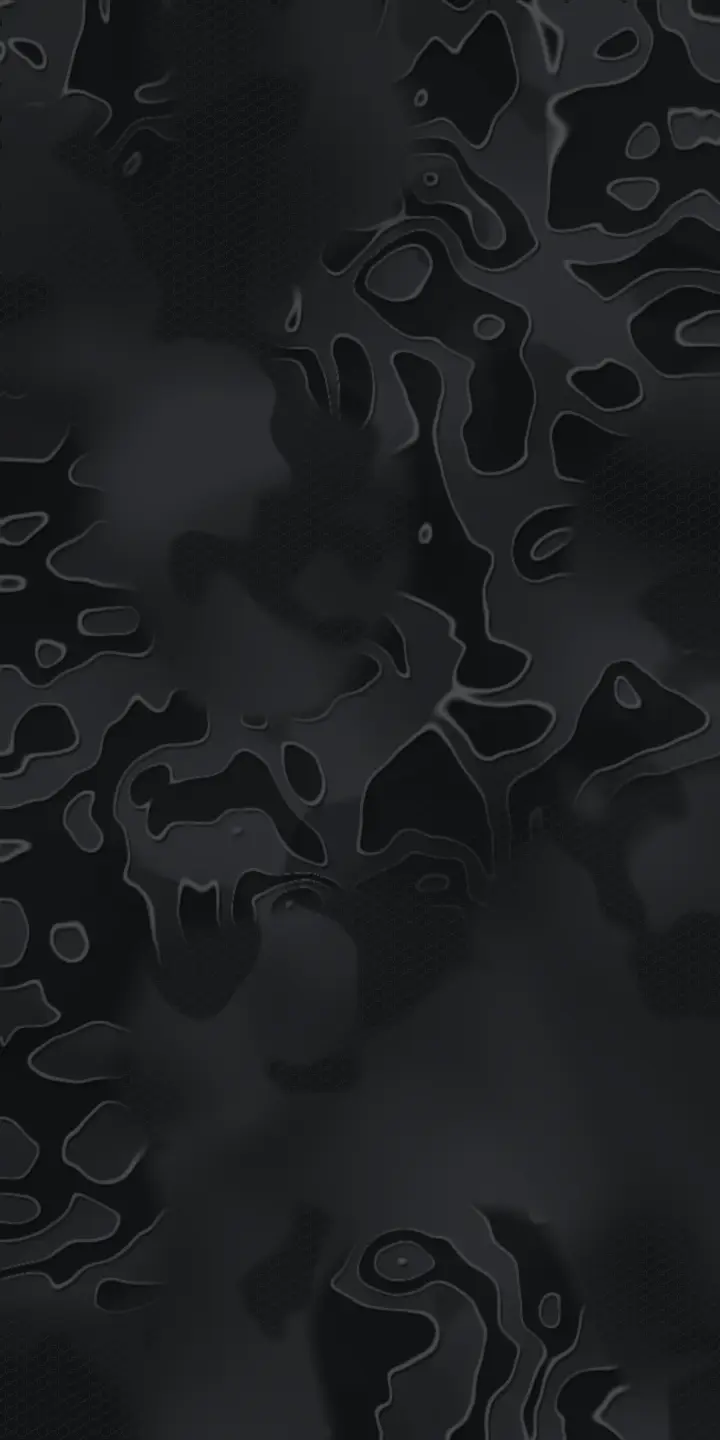
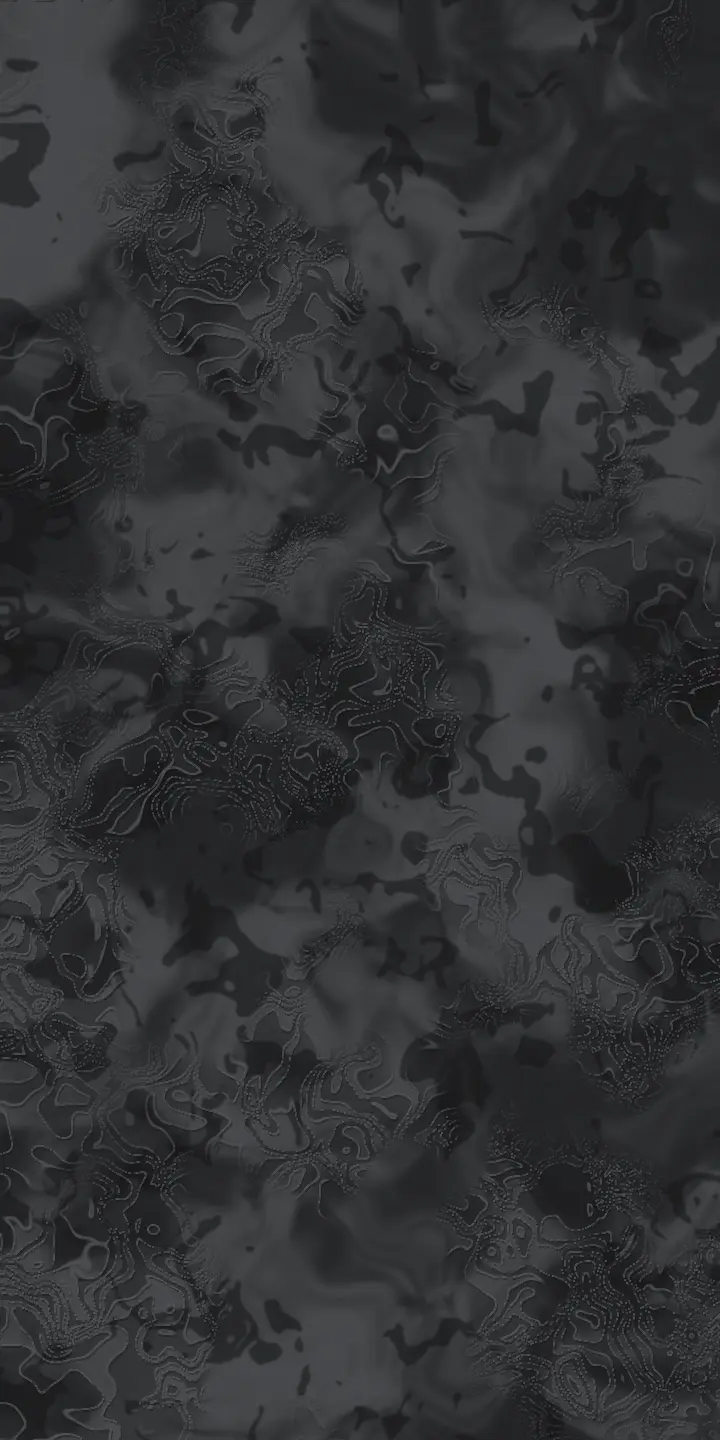
0.7.93: значки Складу, «Відстріляти», камуфляжі, збільшення скринів

diff --git a/css/app.css b/css/app.css
@@ -455,6 +455,10 @@ button, input, select, textarea { font: inherit; color: inherit; }
 .swipe-ico svg { width: 22px; height: 22px; fill: none; stroke: currentColor; stroke-width: 1.8; stroke-linejoin: round; stroke-linecap: round; }
 /* Поріг пройдено — іконка підростає разом із вібрацією: відпускай, спрацює */
 .card.armed .swipe-ico { transform: scale(1.25); }
+/* Свайп «відстріляти»: дійшов до спрацювання — у мішені спалахує пробоїна */
+.swipe-ico .hit { transform-box: fill-box; transform-origin: center; }
+.card.armed .swipe-ico .hit { animation: swipe-hit .35s ease-out; }
+@keyframes swipe-hit { 0% { transform: scale(.3); opacity: .3; } 60% { transform: scale(1.4); opacity: 1; } 100% { transform: none; } }
 .swipe-bg.right { background: var(--buy); justify-content: flex-start; }
 .swipe-bg.left { background: var(--shoot); justify-content: flex-end; }
 .card.dir-right .swipe-bg.right, .card.dir-left .swipe-bg.left { display: flex; opacity: .55; }
@@ -1370,10 +1374,12 @@ button.gun-stat { cursor: pointer; }
 .tabs a.active svg { background: var(--accent-soft); }
 /* Перейшли на розділ — його значок ~2,4 с грає своє: набої підстрибують хвилею, щит блищить, рядки журналу пишуться, мішень ловить влучання */
 .tabs svg :is(g, path, circle) { transform-box: fill-box; transform-origin: center; }
-.tabs a.play[data-tab="ammo"] g { animation: tab-hop .8s ease-in-out 3; }
-.tabs a.play[data-tab="ammo"] g:nth-child(2) { animation-delay: .12s; }
-.tabs a.play[data-tab="ammo"] g:nth-child(3) { animation-delay: .24s; }
-@keyframes tab-hop { 0%, 60%, 100% { transform: none; } 25% { transform: translateY(-3px); } }
+/* Склад: кришка цинку відкидається на завісі зліва, з цинку визирає набій і ховається назад */
+.tabs a[data-tab="ammo"] .peek { opacity: 0; }
+.tabs a.play[data-tab="ammo"] .lid { transform-box: view-box; transform-origin: 3px 11px; animation: tab-lid 1.6s ease-in-out both; }
+.tabs a.play[data-tab="ammo"] .peek { animation: tab-peek 1.6s ease-in-out both; }
+@keyframes tab-lid { 0%, 100% { transform: none; } 25%, 70% { transform: rotate(-30deg); } }
+@keyframes tab-peek { 0%, 18%, 82%, 100% { opacity: 0; transform: translateY(3px); } 38%, 64% { opacity: 1; transform: translateY(-1.5px); } }
 /* Лише transform: «промальовування» через stroke-dashoffset перераховувало значок щокадру й гальмувало перехід */
 .tabs a.play[data-tab="guns"] .emb { animation: tab-emb 1.6s ease-out both; }
 .tabs a.play[data-tab="guns"] .emb:nth-child(2) { transform-origin: 50% 100%; }
@@ -1408,11 +1414,20 @@ button.gun-stat { cursor: pointer; }
 @keyframes seg-dash { 0%, 100% { transform: none; } 30% { transform: translateX(-3px); } 70% { transform: translateX(3px); } }
 /* Розділи Складу й Арсеналу: патрон підстрибує, у компонентах куля підскакує й капсулі блимають, у колбі рідина хлюпає,
    гвинтівка тричі віддає, жилет «дихає» */
-.range-seg .play[data-seg="ammo"] svg { animation: seg-hop .8s ease-in-out 3; }
+.range-seg svg g { transform-box: fill-box; transform-origin: center; }
+/* Набої підстрибують по черзі, як у магазин */
+.range-seg .play[data-seg="ammo"] :is(.r1, .r2) { animation: seg-hop .8s ease-in-out 2; }
+.range-seg .play[data-seg="ammo"] .r2 { animation-delay: .22s; }
 @keyframes seg-hop { 0%, 60%, 100% { transform: none; } 25% { transform: translateY(-3px); } }
-.range-seg .play[data-seg="components"] path:nth-child(5) { animation: seg-hop .8s ease-in-out 3; }
-.range-seg .play[data-seg="components"] circle { animation: seg-ring 1.2s ease-out 2; }
-.range-seg .play[data-seg="components"] circle:nth-child(4) { animation-delay: .12s; }
+/* Компоненти: банка нахиляється й сипле порох, куля підскакує, капсуль блимає */
+.range-seg .play[data-seg="components"] .jar { transform-box: view-box; transform-origin: 11.5px 21px; animation: seg-tilt 1.4s ease-in-out both; }
+.range-seg .play[data-seg="components"] .grains circle { animation: seg-grain 1.4s ease-in both; }
+.range-seg .play[data-seg="components"] .grains circle:nth-child(2) { animation-delay: .12s; }
+.range-seg .play[data-seg="components"] .grains circle:nth-child(3) { animation-delay: .24s; }
+.range-seg .play[data-seg="components"] .proj { animation: seg-hop .8s ease-in-out .3s 2; }
+.range-seg .play[data-seg="components"] .primer { animation: seg-ring 1.2s ease-out .5s; }
+@keyframes seg-tilt { 0%, 100% { transform: none; } 25%, 65% { transform: rotate(16deg); } }
+@keyframes seg-grain { 0%, 20% { transform: none; opacity: 1; } 70% { transform: translateY(6px); opacity: 0; } 71% { transform: translateY(-3px); opacity: 0; } 100% { transform: none; opacity: 1; } }
 .range-seg .play[data-seg="recipes"] path:nth-child(2) { animation: seg-slosh 1.2s ease-in-out 2; }
 @keyframes seg-slosh { 0%, 100% { transform: none; } 25% { transform: rotate(-12deg) translateY(-1px); } 75% { transform: rotate(12deg) translateY(-1px); } }
 .range-seg .play[data-seg="guns"] svg { animation: seg-recoil .8s ease-out 3; }
@@ -2898,17 +2913,16 @@ body:has(.guide .sim.quiz-on) .topbar, body:has(.guide .sim.quiz-on) #view .rang
   linear-gradient(#171818 25%, #151616 25%, #151616 50%, transparent 50%, transparent 75%, #1d1e1f 75%, #1d1e1f) 0 0 / 20px 20px, #141515; }
 [data-bg="coyote"] { --paper: radial-gradient(70% 40% at 100% 0%, rgb(236 127 47 / .18), transparent 70%),
   radial-gradient(130% 70% at 0% 0%, #3b2f20, transparent 70%), linear-gradient(180deg, #221b13 0%, #100d09 100%); }
-[data-bg="camo"] { --paper: url(camo.svg) center / cover no-repeat, #141614; }
+/* Чорний камуфляж — свій узор у дусі чорного мультикаму (camo.webp): плями, гілочки, шестигранники */
+[data-bg="camo"] { --paper: url(camo.webp) center / cover no-repeat, #141614; }
 /* Гадюка — свій сірий узор у дусі Viper (viper*.webp): хмари, рвані плями, обведені «рідкі» розводи */
 [data-bg="viper"] { --paper: url(viper.webp) center / cover no-repeat, #151618; }
 [data-bg="l-viper"] { --paper: url(viper-light.webp) center / cover no-repeat, #dcdcdb; }
 [data-bg="l-plain"] { --paper: radial-gradient(120% 60% at 50% -10%, #e8eae1, #f1f2ec 60%), #f1f2ec; }
-/* «Блокнот» і «Олива» — палітри світлої теми: міняють і картки, лінії, сірий текст, не лише тло */
-[data-bg="l-note"] { --paper: radial-gradient(120% 60% at 50% -10%, #e3dbc9, #ece6d8 60%), #ece6d8; }
-:root[data-bg="l-note"] { --bg: #ece6d8; --bg-glow: #e3dbc9; --surface: #f8f4eb; --surface-2: #efe8da; --seg-on: #fcf9f2; --line: #ddd3bf; --line-soft: #e7dfcf;
+/* «Пісок» і «Хакі» — палітри світлої теми: міняють і картки, лінії, сірий текст, не лише тло (тло саме під картками майже не видно) */
+:root[data-bg="l-sand"] { --bg: #f1e6d1; --bg-glow: #e3dbc9; --surface: #f8f4eb; --surface-2: #efe8da; --seg-on: #fcf9f2; --line: #ddd3bf; --line-soft: #e7dfcf;
   --text: #2b261d; --muted: #6a6151; --accent: #a65410; --accent-2: #8d460c; --shadow: 0 1px 2px rgb(60 45 20 / .07), 0 6px 16px rgb(60 45 20 / .07); }
-[data-bg="l-olive"] { --paper: radial-gradient(120% 60% at 50% -10%, #dce2d1, #e5e9de 60%), #e5e9de; }
-:root[data-bg="l-olive"] { --bg: #e5e9de; --bg-glow: #dce2d1; --surface: #f5f7f0; --surface-2: #e8ece0; --seg-on: #fbfcf7; --line: #d1d8c5; --line-soft: #dde3d3;
+:root[data-bg="l-khaki"] { --bg: #e6e9d7; --bg-glow: #dce2d1; --surface: #f5f7f0; --surface-2: #e8ece0; --seg-on: #fbfcf7; --line: #d1d8c5; --line-soft: #dde3d3;
   --text: #1f251c; --muted: #5a6454; --accent: #a9530f; --accent-2: #8f450b; --shadow: 0 1px 2px rgb(30 45 20 / .07), 0 6px 16px rgb(30 45 20 / .07); }
 [data-bg="l-map"] { --paper: url(topo-light.svg) center / cover no-repeat, linear-gradient(180deg, #f6f2e7 0%, #ebe3d0 100%); }
 /* Міліметрівка — як сітка на мішені: тонка лінія через 10 px, товща через 50 px */
@@ -2926,8 +2940,6 @@ body:has(.guide .sim.quiz-on) .topbar, body:has(.guide .sim.quiz-on) #view .rang
 :root[data-bg="l-viper"] { --bg: #e4e4e3; }
 :root[data-bg="l-map"] { --bg: #f3eee2; }
 :root[data-bg="l-mm"] { --bg: #f5f6ef; }
-:root[data-bg="l-sand"] { --bg: #f1e6d1; }
-:root[data-bg="l-khaki"] { --bg: #e6e9d7; }
 :root[data-bg] body { background: var(--paper); background-attachment: fixed; }
 
 /* Лента фонів — як стрічка цілей: вибраний посередині в рамці, сусіди видні й гаснуть до країв, «‹ ›» по боках */

diff --git a/js/app.js b/js/app.js
@@ -760,7 +760,7 @@ function cartridgeCard(c) {
   const recipe = recipeOf(c);
   return swipeable(card, {
     rightLabel: recipe ? swipeLabel('reload', t('Снарядить')) : swipeLabel('buy', t('Купить')),
-    leftLabel: swipeLabel('shot', t('Списать'), 'left'),
+    leftLabel: swipeLabel('target', t('Отстрелять'), 'left'),
     onRight: () => (recipe ? reloadSheet(recipe) : buySheet(c)),
     onLeft: () => shootSheet({ cartridge: c }),
     onTap: () => cartridgeDetail(c),
@@ -875,7 +875,7 @@ function renderAmmo() {
   if (!active.length) {
     return h('div', {}, empty(t('Пока нет патронов'), t('Добавьте первый патрон, загрузите копию или посмотрите демо-данные.'), [addBtn(), importBtn(), btn(t('Демо-данные'), loadDemo)]), archived);
   }
-  $('subtitle').textContent = swipeTip('ammo', active.some(recipeOf) ? t('Свайп → купить или снарядить, ← списать') : t('Свайп → купить, ← списать'),
+  $('subtitle').textContent = swipeTip('ammo', active.some(recipeOf) ? t('Свайп → купить или снарядить, ← отстрелять') : t('Свайп → купить, ← отстрелять'),
     t('позиций: {n}', { n: active.length }));
   const groups = groupBy(active, (c) => c.caliber || t('Без калибра'))
     .map(([caliber, list]) => ({ caliber, list: list.sort(byName), sum: list.reduce((s, c) => s + M.cartridgeStock(state, c.id), 0) }));
@@ -1142,7 +1142,7 @@ function shootSheet({ cartridge = null, weapon = null }) {
   const noteChips = chips(noteSuggestions(), '', (v) => { f.inputs.note.value = v; });
   noteChips.classList.add('chips-sm');
   const when = whereWhenBox(f, { lead: [f.inputs.note.closest('.field'), noteChips] });
-  const title = cartridge ? t('Списать: {name}', { name: cartridge.name }) : t('Настрел: {name}', { name: weapon.name });
+  const title = cartridge ? t('Стрельба: {name}', { name: cartridge.name }) : t('Настрел: {name}', { name: weapon.name });
   const info = cartridge ? h('p', { class: 'muted' }, t('В наличии: {n} шт', { n: fmt.num(M.cartridgeStock(state, cartridge.id)) })) : null;
   // Вартість стрільби одразу під кількістю: ціна набою × постріли.
   const costLine = h('div', { class: 'cost-line small' });
@@ -1175,7 +1175,7 @@ function shootSheet({ cartridge = null, weapon = null }) {
     f.inputs.foreignName ? foreignList() : null);
   body.addEventListener('click', () => setTimeout(updateAll));
   const close = sheet(title, body, {
-    actions: [btn(t('Отмена'), () => close()), btn(t('Списать'), save, 'primary shoot')],
+    actions: [btn(t('Отмена'), () => close()), btn(t('Записать'), save, 'primary shoot')],
   });
   async function save() {
     if (invalidField(f)) return;
@@ -1286,7 +1286,7 @@ function cartridgeBody(c, close) {
       recipe
         ? btn(t('Снарядить'), () => { close(); reloadSheet(recipe); }, 'primary')
         : btn(t('+ Купить'), () => { close(); buySheet(c); }, 'primary'),
-      btn(t('Списать −'), () => { close(); shootSheet({ cartridge: c }); }),
+      btn(t('Отстрелять −'), () => { close(); shootSheet({ cartridge: c }); }),
       btn(t('Пересчёт'), () => { close(); adjustSheet(c, 'cartridges'); })),
     cartridgePrecisionBox(c, close),
     box(t('История'), movementRows(moves, { skip: { cartridge: true } }), { fold: `hist:${c.id}`, count: moves.length }));
@@ -3286,6 +3286,8 @@ const KIND_ICON = {
   // Крапля мастила над лінією ствола: чистка — це догляд, а не прибирання.
   // Гільза й стрілка вниз: зібране повертається на склад.
   collect: '<path d="M6 21v-9l.8-1.6V8c0-1.3.5-2.5 1.2-3.2.7.7 1.2 1.9 1.2 3.2v2.4L10 12v9z"/><path d="M17 4v9M13.5 9.5 17 13l3.5-3.5M14 18h6"/>',
+  // Мішень із пробоїною й іскрою — свайп «відстріляти» на набої
+  target: '<circle cx="12" cy="12" r="9"/><circle cx="12" cy="12" r="5.5"/><circle cx="12" cy="12" r="2"/><g class="hit"><circle cx="15.6" cy="8.6" r="1.7" fill="currentColor" stroke="none"/><path d="M15.6 4.6v1.1M19.6 8.6h-1.1M18.5 5.7l-.8.8"/></g>',
   clean: '<path d="M4 17.5h16"/><path d="M12 4c2.2 2.8 3.4 4.8 3.4 6.4a3.4 3.4 0 0 1-6.8 0C8.6 8.8 9.8 6.8 12 4z"/>',
 };
 
@@ -3903,7 +3905,7 @@ function renderLog() {
     h('div', { class: 'log-controls' }, h('div', { class: 'log-bar' }, period, filterBtn), onRow),
     list.length
       ? logGroups(list)
-      : empty(t('Записей нет'), t('Свайпните патрон на «Складе», чтобы купить или списать.'), [btn(t('На склад'), () => { location.hash = '#ammo'; }, 'primary')]),
+      : empty(t('Записей нет'), t('Свайпните патрон на «Складе», чтобы купить или отстрелять.'), [btn(t('На склад'), () => { location.hash = '#ammo'; }, 'primary')]),
     csv);
 }
 
@@ -6343,14 +6345,15 @@ function themePref() {
 // Фон під картками — свій набір для темної й світлої теми; перший (без малюнка) — за замовчуванням, у нічній фону немає
 const BACKDROPS = {
   dark: [['plain', 'Без рисунка'], ['map', 'Карта'], ['olive', 'Олива'], ['carbon', 'Карбон'], ['coyote', 'Койот'], ['camo', 'Чёрный камуфляж'], ['viper', 'Гадюка']],
-  light: [['l-plain', 'Без рисунка'], ['l-note', 'Блокнот'], ['l-olive', 'Олива'], ['l-map', 'Карта'], ['l-mm', 'Миллиметровка'], ['l-sand', 'Песок'], ['l-khaki', 'Хаки'], ['l-viper', 'Гадюка']],
+  light: [['l-plain', 'Без рисунка'], ['l-map', 'Карта'], ['l-mm', 'Миллиметровка'], ['l-sand', 'Песок'], ['l-khaki', 'Хаки'], ['l-viper', 'Гадюка']],
 };
 const BG_KEY = { dark: 'shooters-log:bg', light: 'shooters-log:bg-light' };
 
 function backdropPref(theme) {
   const list = BACKDROPS[theme];
   if (!list) return null;
-  const v = recall(BG_KEY[theme]);
+  // «Блокнот» і «Олива» (лише 31.10) злиті з «Піском» і «Хакі»
+  const v = { 'l-note': 'l-sand', 'l-olive': 'l-khaki' }[recall(BG_KEY[theme])] ?? recall(BG_KEY[theme]);
   return list.some(([k]) => k === v) ? v : list[0][0];
 }
 

diff --git a/js/i18n.js b/js/i18n.js
@@ -266,9 +266,9 @@ const UK = {
   'Ресурс ствола, выстрелов': 'Ресурс ствола, пострілів',
   'Рецептов нет': 'Рецептів немає',
   'Свайп → купить, ← пересчёт': 'Свайп → купити, ← перерахунок',
-  'Свайп → купить, ← списать': 'Свайп → купити, ← списати',
+  'Свайп → купить, ← отстрелять': 'Свайп → купити, ← відстріляти',
   'Свайп → снарядить': 'Свайп → спорядити',
-  'Свайпните патрон на «Складе», чтобы купить или списать.': 'Свайпніть набій на «Складі», щоб купити або списати.',
+  'Свайпните патрон на «Складе», чтобы купить или отстрелять.': 'Свайпніть набій на «Складі», щоб купити або відстріляти.',
   'На склад': 'На склад',
   'Назад': 'Назад',
   'Сейчас в наличии, шт': 'Зараз у наявності, шт',
@@ -295,7 +295,7 @@ const UK = {
   'снаряжено': 'споряджено',
   'Рецепт': 'Рецепт',
   'Снаряжения': 'Спорядження',
-  'Свайп → купить или снарядить, ← списать': 'Свайп → купити або спорядити, ← списати',
+  'Свайп → купить или снарядить, ← отстрелять': 'Свайп → купити або спорядити, ← відстріляти',
   'Сейчас в наличии (шт или г)': 'Зараз у наявності (шт або г)',
   'Изменить: {name}': 'Змінити: {name}',
   'цена за {unit}': 'ціна за {unit}',
@@ -327,9 +327,9 @@ const UK = {
   'Сначала добавьте компоненты на складе, затем рецепт.': 'Спершу додайте компоненти на складі, потім рецепт.',
   'Сохранить': 'Зберегти',
   'Списано компонентов': 'Списано компонентів',
-  'Списать': 'Списати',
-  'Списать −': 'Списати −',
-  'Списать: {name}': 'Списати: {name}',
+  'Отстрелять': 'Відстріляти',
+  'Отстрелять −': 'Відстріляти −',
+  'Стрельба: {name}': 'Стрільба: {name}',
   'Статус': 'Статус',
   'Стрельба': 'Стрільба',
   'Упражнение': 'Вправа',
@@ -1286,7 +1286,6 @@ const UK = {
   'Песок': 'Пісок',
   'Хаки': 'Хакі',
   'Гадюка': 'Гадюка',
-  'Блокнот': 'Блокнот',
   'Чёрный камуфляж': 'Чорний камуфляж',
   'Предыдущий': 'Попередній',
   'Следующий': 'Наступний',

diff --git a/about/index.html b/about/index.html
@@ -3,7 +3,7 @@
 <head>
   <meta charset="utf-8">
   <meta name="viewport" content="width=device-width, initial-scale=1, viewport-fit=cover">
-  <meta http-equiv="Content-Security-Policy" content="default-src 'none'; img-src 'self'; media-src 'self'; style-src 'unsafe-inline'; base-uri 'none'; form-action 'none'">
+  <meta http-equiv="Content-Security-Policy" content="default-src 'none'; img-src 'self'; media-src 'self'; script-src 'self'; style-src 'unsafe-inline'; base-uri 'none'; form-action 'none'">
   <title>Shooter’s Log — журнал стрілка</title>
   <meta name="description" content="Безкоштовний застосунок для стрілка: набої й склад, стволи й настріл, мішені по фото, вправи, хронограф, таймер, тренажер сітки й таблиці DOPE. Працює без інтернету, дані лишаються у вас.">
   <meta property="og:type" content="website">
@@ -64,6 +64,15 @@
       box-shadow: 0 12px 32px rgb(0 0 0 / .22);
     }
     .phone picture { display: block; }
+    .phone { cursor: zoom-in; }
+    .phone:focus-visible { outline: 3px solid var(--accent); outline-offset: 3px; }
+    /* Збільшений скрин: майже на всю висоту екрана */
+    dialog.zoom { padding: 0; border: 0; background: none; max-width: none; max-height: none; overflow: visible; }
+    dialog.zoom::backdrop { background: rgb(0 0 0 / .82); }
+    dialog.zoom img, dialog.zoom video { display: block; width: auto; height: min(92dvh, 1180px); max-width: 94vw; object-fit: contain;
+      border-radius: 26px; box-shadow: 0 0 0 6px #000, 0 20px 60px rgb(0 0 0 / .6); cursor: zoom-out; animation: zoom-in .22s ease-out; }
+    @keyframes zoom-in { from { opacity: 0; transform: scale(.94); } }
+    @media (prefers-reduced-motion: reduce) { dialog.zoom img, dialog.zoom video { animation: none; } }
     .phone img, .phone video { display: block; width: 100%; height: auto; border-radius: 20px; aspect-ratio: 412 / 839; background: var(--surface-2); object-fit: cover; }
 
     section.feat { display: grid; grid-template-columns: 1fr; gap: 20px; align-items: center; padding: 36px 0; border-top: 1px solid var(--line); }
@@ -259,5 +268,6 @@
       <p><a href="https://github.com/VitaliyLobko/shooting-log">GitHub</a> · <a href="https://github.com/VitaliyLobko/shooting-log/issues/new">Написати про помилку чи ідею</a> · <a href="https://send.monobank.ua/jar/XJKDMyVfW"><img src="../icons/monobank.png" alt="" width="20" height="20" style="vertical-align: -5px; border-radius: 5px"> На каву автору</a></p>
     </footer>
   </div>
+  <script src="zoom.js" type="module"></script>
 </body>
 </html>

diff --git a/js/ui.js b/js/ui.js
@@ -701,13 +701,16 @@ const TOOL_ICON = {
   // сітка прицілу з мілрадіанними точками
   // Тренажер: приціл із фігуркою — щоб не плутати з MRAD (mil) і прицілюванням
   sim: '<circle cx="12" cy="12" r="8.5"/><path d="M12 3.5v3M12 17.5v3M3.5 12h3M17.5 12h3"/><circle cx="12" cy="10" r="1.6"/><path d="M9.6 16.2v-1.4a2.4 2.4 0 0 1 4.8 0v1.4"/>',
-  // Компоненти: банка пороху, капсюль і куля
-  parts: '<path d="M3.5 9h8v11a1 1 0 0 1-1 1h-6a1 1 0 0 1-1-1z"/><path d="M5 9V6.5h5V9M3.5 14h8"/><circle cx="17.5" cy="17" r="3.5"/><circle cx="17.5" cy="17" r="1.2"/><path d="M16 3h3l.5 2.5v5h-4v-5z"/>',
+  // Компоненти: банка пороху з крупинками над горлом, куля й капсуль
+  parts: '<g class="jar"><path d="M3 10h8.5v10a1 1 0 0 1-1 1H4a1 1 0 0 1-1-1z"/><path d="M4.5 10V7.5h5.5V10"/><path d="M5.5 15.5h3.5"/></g>'
+    + '<g class="grains" fill="currentColor" stroke="none"><circle cx="11.6" cy="5.4" r=".75"/><circle cx="12.8" cy="3.6" r=".65"/><circle cx="13.3" cy="6.5" r=".6"/></g>'
+    + '<path class="proj" d="M15.5 12.5V8.2c0-1.8.9-3.3 2.2-4.2 1.3.9 2.2 2.4 2.2 4.2v4.3z"/><g class="primer"><circle cx="17.7" cy="18" r="3"/><circle cx="17.7" cy="18" r="1.1"/></g>',
   mil: '<circle cx="12" cy="12" r="8.5"/><path d="M12 3.5v17M3.5 12h17"/><circle cx="12" cy="7.5" r=".9"/><circle cx="12" cy="16.5" r=".9"/><circle cx="7.5" cy="12" r=".9"/><circle cx="16.5" cy="12" r=".9"/>',
   // колба з рівнем пороху — рецепт спорядження
   recipe: '<path d="M9 3h6M10 3v6L5 18.2A2 2 0 0 0 6.8 21h10.4a2 2 0 0 0 1.8-2.8L14 9V3"/><path d="M7.4 15h9.2"/>',
-  // набій
-  ammo: '<path d="M9 21V11l1-2V6.5C10 4.6 10.8 3 12 2c1.2 1 2 2.6 2 4.5V9l1 2v10z"/><path d="M9 15h6"/>',
+  // два набої: куля над гільзою, проточка внизу
+  ammo: '<g class="r1"><path d="M4.5 21v-8.5l.9-1.7V8.4c0-1.8.9-3.4 2.1-4.4 1.2 1 2.1 2.6 2.1 4.4v2.4l.9 1.7V21z"/><path d="M5.4 10.8h4.2M4.5 18.6h6"/></g>'
+    + '<g class="r2"><path d="M13 21v-7.5l.9-1.7V9.6c0-1.6.9-3 2.1-3.9 1.2.9 2.1 2.3 2.1 3.9v2.2l.9 1.7V21z"/><path d="M13.9 11.8h4.2M13 18.6h6"/></g>',
   view: '<path d="M8 13V5.5a1.5 1.5 0 0 1 3 0V12"/><path d="M11 11.5v-7a1.5 1.5 0 0 1 3 0v7"/><path d="M14 11.5V6a1.5 1.5 0 0 1 3 0v7.5"/><path d="M17 10.5a1.5 1.5 0 0 1 3 0V15a6 6 0 0 1-6 6h-1.5a6 6 0 0 1-4.6-2.2L4.5 14.6a1.5 1.5 0 0 1 2.3-1.9L8 14"/>',
   align: '<path d="M5 6.5L19 4v16l-14-2.5z"/><path d="M9.7 5.7v12.6M14.3 4.9v14.2"/>',
   // Гвинтівка й плитоноска — розділи вкладки «Зброя».

diff --git a/js/changelog.js b/js/changelog.js
@@ -2,6 +2,21 @@
 // Кожен реліз — запис тут (uk і ru), інакше після оновлення людина не побачить, що змінилося.
 export const CHANGES = [
   {
+    v: '0.7.93', date: '2026-10-31',
+    uk: [
+      'Нові значки з анімацією: Склад — цинк, з якого визирає набій; Набої — два набої; Компоненти — банка пороху, куля й капсуль',
+      'Свайп по набою вліво тепер «Відстріляти» — з мішенню, форма зветься «Стрільба»',
+      'Фони: новий чорний камуфляж із шестигранниками, «Гадюка» перемальована; у світлій темі «Пісок» і «Хакі» перефарбовують і картки',
+      'Про застосунок (сайт): скрин по тапу відкривається крупно',
+    ],
+    ru: [
+      'Новые значки с анимацией: Склад — цинк, из которого выглядывает патрон; Патроны — два патрона; Компоненты — банка пороха, пуля и капсюль',
+      'Свайп по патрону влево теперь «Отстрелять» — с мишенью, форма называется «Стрельба»',
+      'Фоны: новый чёрный камуфляж с шестигранниками, «Гадюка» перерисована; в светлой теме «Песок» и «Хаки» перекрашивают и карточки',
+      'О приложении (сайт): скрин по тапу открывается крупно',
+    ],
+  },
+  {
     v: '0.7.92', date: '2026-10-31',
     uk: [
       'Застосунок тепер зветься Shooter’s Log',

diff --git a/about/zoom.js b/about/zoom.js
@@ -1,0 +1,31 @@
+// Скрин чи відео по тапу — крупно поверх сторінки; ще тап або Esc — закрити
+const dlg = document.createElement('dialog');
+dlg.className = 'zoom';
+document.body.append(dlg);
+
+function open(phone) {
+  const media = phone.querySelector('img, video');
+  if (!media) return;
+  let big;
+  if (media.tagName === 'VIDEO') {
+    big = Object.assign(document.createElement('video'), { src: media.currentSrc || media.src, poster: media.poster, muted: true, loop: true, playsInline: true });
+    big.setAttribute('aria-label', media.getAttribute('aria-label') ?? '');
+  } else {
+    big = Object.assign(document.createElement('img'), { src: media.currentSrc || media.src, alt: media.alt });
+  }
+  dlg.replaceChildren(big);
+  dlg.showModal();
+  if (big.tagName === 'VIDEO') big.play().catch(() => {});
+}
+
+for (const phone of document.querySelectorAll('.phone')) {
+  phone.tabIndex = 0;
+  phone.setAttribute('role', 'button');
+  phone.setAttribute('aria-label', 'Збільшити');
+  phone.addEventListener('click', () => open(phone));
+  phone.addEventListener('keydown', (e) => {
+    if (e.key === 'Enter' || e.key === ' ') { e.preventDefault(); open(phone); }
+  });
+}
+dlg.addEventListener('click', () => dlg.close());
+dlg.addEventListener('close', () => dlg.replaceChildren());

diff --git a/index.html b/index.html
@@ -49,7 +49,7 @@
 
   <nav class="tabs">
     <a href="#ammo" data-tab="ammo">
-      <svg viewBox="0 0 24 24"><g><path d="M2.5 21V11l.8-1.5V7c0-1.4.6-2.8 1.2-3.5.6.7 1.2 2.1 1.2 3.5v2.5l.8 1.5v10z"/><path d="M2.5 14h4"/></g><g><path d="M10 21V11l.8-1.5V7c0-1.4.6-2.8 1.2-3.5.6.7 1.2 2.1 1.2 3.5v2.5l.8 1.5v10z"/><path d="M10 14h4"/></g><g><path d="M17.5 21V11l.8-1.5V7c0-1.4.6-2.8 1.2-3.5.6.7 1.2 2.1 1.2 3.5v2.5l.8 1.5v10z"/><path d="M17.5 14h4"/></g></svg>
+      <svg viewBox="0 0 24 24"><path class="peek" d="M10.4 11V8.6c0-1.1.7-2.1 1.6-2.7.9.6 1.6 1.6 1.6 2.7V11"/><path d="M3.5 11h17v8.5a1.5 1.5 0 0 1-1.5 1.5H5a1.5 1.5 0 0 1-1.5-1.5z"/><g class="lid"><path d="M3 11V9a1 1 0 0 1 1-1h16a1 1 0 0 1 1 1v2z"/><path d="M9.5 8V6h5v2"/></g><path d="M7.5 15.5h9"/><path d="M18 11v2.5"/></svg>
       <span data-i18n="Склад">Склад</span>
     </a>
     <a href="#guns" data-tab="guns">

diff --git a/version.js b/version.js
@@ -1,5 +1,5 @@
 // Підняти при кожному релізі: від цього залежить оновлення кешу service worker.
-self.APP_VERSION = '0.7.92';
+self.APP_VERSION = '0.7.93';
 // Номер складання: версію для людей лишаємо, а цей рядок міняється з кожним оновленням —
 // інакше service worker вважає файли тими самими й не пропонує оновитись.
-self.APP_BUILD = '2026-10-31-8';
+self.APP_BUILD = '2026-10-31-9';

diff --git a/sw.js b/sw.js
@@ -10,7 +10,7 @@ const ASSETS = [
   './css/app.css',
   './css/topo.svg',
   './css/topo-light.svg',
-  './css/camo.svg',
+  './css/camo.webp',
   './css/viper.webp',
   './css/viper-light.webp',
   './js/app.js',
